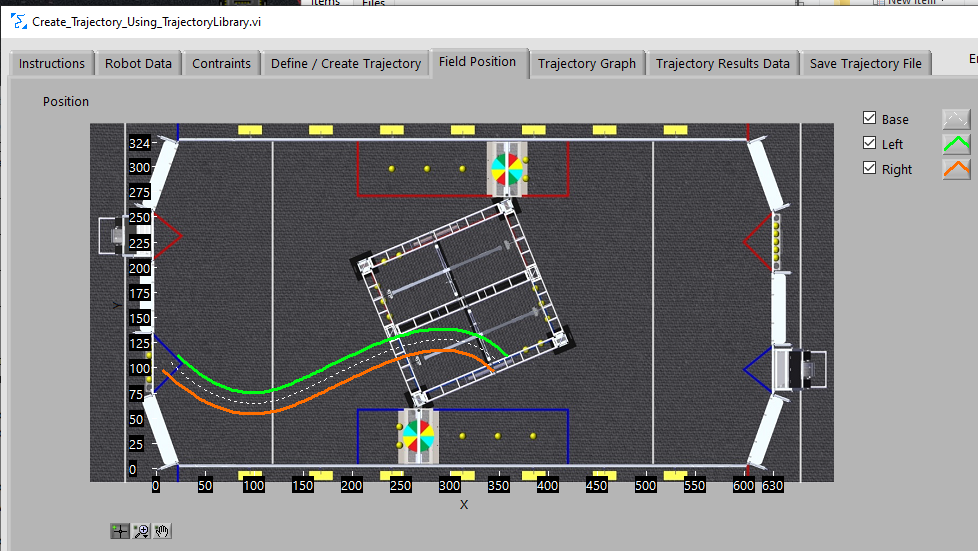
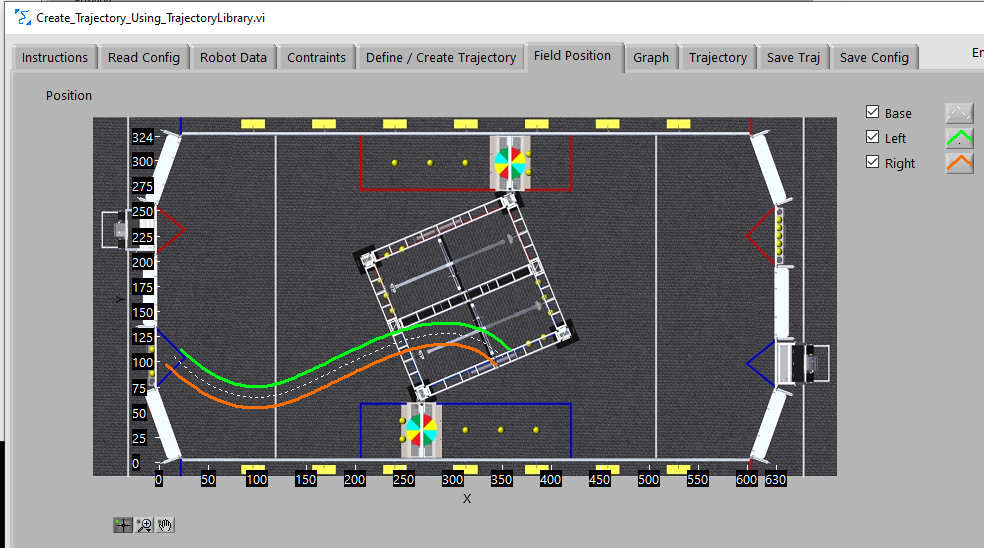
update readme for new trajectory create config save/restore funtionality

diff --git a/FRC_Traj_Util/readme.md b/FRC_Traj_Util/readme.md
@@ -8,13 +8,15 @@ of the programming language used on the robot.  The utilities are:
 - **Create Trajectory Using Trajectory Library**
 
 	Create a trajectory using the trajectory library routines and write it to a CSV (comma separated value) file that can be
-	copied to a RoboRIO and read by the robot code.  The trajectory is created by:
+	copied to a RoboRIO and read by the robot code.  The trajectory configuration can be written to an XML file and read back to allow iterative trajectory creation and modification.  The trajectory is created by:
 
 	1. Defining robot properties
 	1. Defining drive system constraints
 	1. Defining the trajectory "waypoints".
 	1. Creating and reviewing the trajectory.  If changes need to be made to back to steps *i*,*ii*,*iii* as needed.
 	1. Write the trajectory to a file.
+	1. Write the trajectory configuration to a file.
+	1. Read a trajectory configuration from a file.
 
 	**Sample screen shot**
 
@@ -31,6 +33,11 @@ of the programming language used on the robot.  The utilities are:
 	![Create Trajectory Field!](images/Util_create_traj_results.PNG)
 
 	![Create Trajectory Field!](images/Util_create_traj_file.PNG)
+
+	![Create Trajectory Field!](images/Util_create_traj_config_file.PNG)
+
+	![Create Trajectory Field!](images/Util_read_traj_config_file.PNG)
+
 
 	**Sample trajectory file**
 
@@ -69,7 +76,7 @@ of the programming language used on the robot.  The utilities are:
 
 
 ---
-File last updated: 8/6/2020
+File last updated: 8/19/2020
 
 
 
